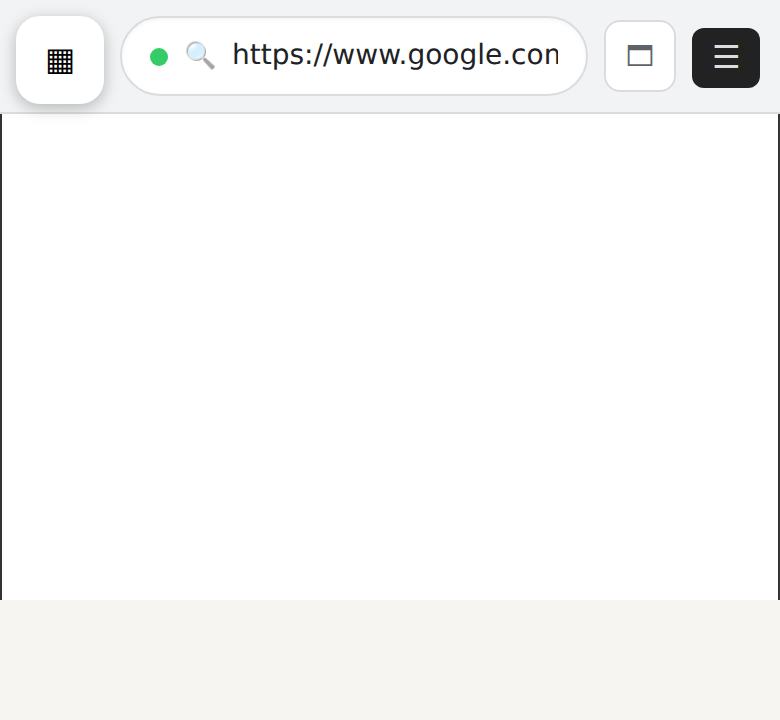
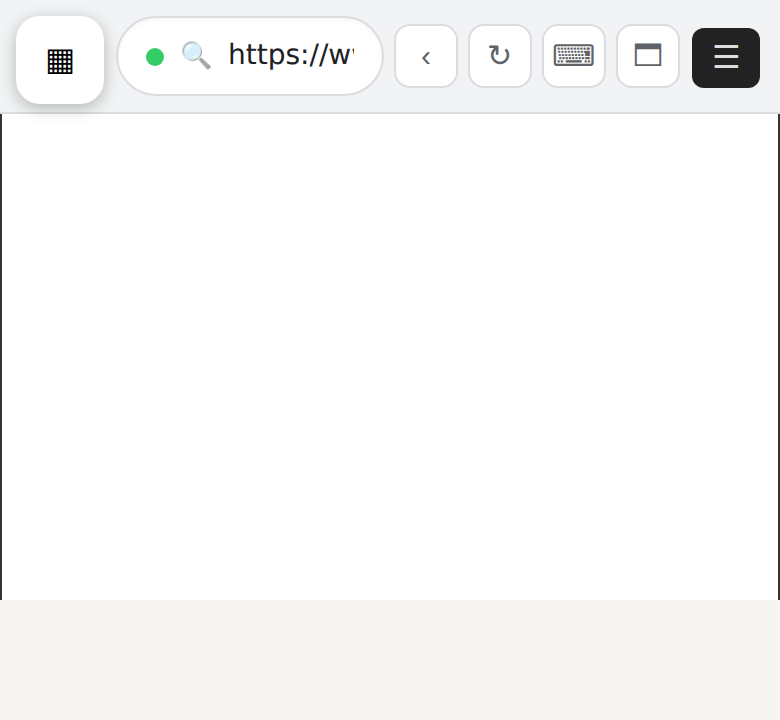
0.0.8: mobile keyboard, touch scroll/tap, home=google.com, back/reload
Mobile UX fixes (the streamed page is a canvas, not real DOM):
- Soft keyboard: a hidden textarea is focused on tap (and via a ⌨ button) to
  raise the mobile keyboard; keystrokes + IME/beforeinput are forwarded to the
  remote page via CDP. Fixes 'keyboard doesn't pop up when I tap a field'.
- Touch: tap = click, drag = scroll (mouseWheel); pointer events unify mouse +
  touch. Desktop mouse unchanged.
- Home page: a new browser navigates to PI_CRUST_BROWSER_HOME (default
  https://www.google.com/) instead of about:blank.
- Toolbar: Back (‹), Reload (↻), Keyboard (⌨), Maximize — sized to fit mobile
  beside the search pill, clear of the host's corner controls.

Tests: 101 passed | 18 todo, tsc clean, e2e green. docs/search-bar-mobile.png updated.

Changed region(s): [[0.1846, 0.0306, 0.7692, 0.1222], [0.8, 0.0306, 0.8615, 0.0917]]

diff --git a/src/web/widget.src.ts b/src/web/widget.src.ts
@@ -42,6 +42,9 @@ function BrowserViewer({ hostProps }: { hostProps: any }) {
   const React = hostProps.React;
   const { useEffect, useRef, useState } = React;
   const canvasRef = useRef(null);
+  const kbRef = useRef(null);
+  const gestureRef = useRef({ sx: 0, sy: 0, lx: 0, ly: 0, px: 0, py: 0, moved: false, touch: false });
+  const pressedRef = useRef(false);
   const sizeRef = useRef({ w: 1280, h: 800 });
   const transportRef = useRef(null);
   const browserIdRef = useRef(null);
@@ -135,14 +138,72 @@ function BrowserViewer({ hostProps }: { hostProps: any }) {
     if (t && id) t.input(id, ev);
   };
 
-  const onMouse = (type: string) => (ev: any) => {
+  // Summon the on-screen keyboard by focusing the hidden textarea (mobile can
+  // only raise the soft keyboard for a focused editable element).
+  const focusKeyboard = () => { try { (kbRef.current as any)?.focus({ preventScroll: true }); } catch { /* ignore */ } };
+
+  // --- Pointer input: mouse = move/click/drag; touch = tap-to-click + drag-to-scroll.
+  const onPointerDown = (ev: any) => {
     const p = toPage(ev);
-    send({ kind: 'mouse', type, x: p.x, y: p.y, button: 'left', clickCount: type === 'mouseMoved' ? 0 : 1 });
-    if (type === 'mousePressed') canvasRef.current?.focus();
+    gestureRef.current = { sx: ev.clientX, sy: ev.clientY, lx: ev.clientX, ly: ev.clientY, px: p.x, py: p.y, moved: false, touch: ev.pointerType !== 'mouse' };
+    pressedRef.current = true;
+    try { canvasRef.current?.setPointerCapture?.(ev.pointerId); } catch { /* ignore */ }
+    if (ev.pointerType === 'mouse') send({ kind: 'mouse', type: 'mousePressed', x: p.x, y: p.y, button: 'left', clickCount: 1 });
   };
-  const onKey = (type: string) => (ev: any) => {
-    send({ kind: 'key', type, key: ev.key, code: ev.code, text: ev.key.length === 1 ? ev.key : undefined });
-    ev.preventDefault();
+  const onPointerMove = (ev: any) => {
+    const g = gestureRef.current;
+    if (!pressedRef.current) {
+      if (ev.pointerType === 'mouse') { const p = toPage(ev); send({ kind: 'mouse', type: 'mouseMoved', x: p.x, y: p.y }); }
+      return;
+    }
+    if (Math.abs(ev.clientX - g.sx) + Math.abs(ev.clientY - g.sy) > 8) g.moved = true;
+    if (ev.pointerType === 'mouse') {
+      const p = toPage(ev); send({ kind: 'mouse', type: 'mouseMoved', x: p.x, y: p.y });
+    } else {
+      // touch drag → scroll the page by the delta since the last move
+      const r = canvasRef.current!.getBoundingClientRect();
+      const { w, h } = sizeRef.current;
+      const dx = (ev.clientX - g.lx) * (w / r.width);
+      const dy = (ev.clientY - g.ly) * (h / r.height);
+      g.lx = ev.clientX; g.ly = ev.clientY;
+      send({ kind: 'mouse', type: 'mouseWheel', x: g.px, y: g.py, deltaX: -dx, deltaY: -dy });
+    }
+  };
+  const onPointerUp = (ev: any) => {
+    if (!pressedRef.current) return;
+    pressedRef.current = false;
+    const g = gestureRef.current;
+    if (ev.pointerType === 'mouse') {
+      const p = toPage(ev); send({ kind: 'mouse', type: 'mouseReleased', x: p.x, y: p.y, button: 'left', clickCount: 1 });
+    } else if (!g.moved) {
+      // tap → click the remote element, then raise the keyboard so typing works
+      send({ kind: 'mouse', type: 'mousePressed', x: g.px, y: g.py, button: 'left', clickCount: 1 });
+      send({ kind: 'mouse', type: 'mouseReleased', x: g.px, y: g.py, button: 'left', clickCount: 1 });
+      focusKeyboard();
+    }
+  };
+
+  // --- Soft + hardware keyboard: forwarded from the hidden textarea.
+  const onKbKeyDown = (ev: any) => {
+    if (ev.key && ev.key.length > 1) { // named keys (Enter, Backspace, Arrow*, Tab, Esc)
+      send({ kind: 'key', type: 'keyDown', key: ev.key, code: ev.code });
+      if (['Backspace', 'Tab', 'Enter', 'ArrowUp', 'ArrowDown'].includes(ev.key)) ev.preventDefault();
+    } else if (ev.key && (ev.ctrlKey || ev.metaKey)) {
+      send({ kind: 'key', type: 'keyDown', key: ev.key, code: ev.code, modifiers: { ctrl: ev.ctrlKey, meta: ev.metaKey, shift: ev.shiftKey, alt: ev.altKey } });
+    }
+  };
+  const onKbKeyUp = (ev: any) => { if (ev.key && ev.key.length > 1) send({ kind: 'key', type: 'keyUp', key: ev.key, code: ev.code }); };
+  // beforeinput carries soft-keyboard text/IME on mobile (keydown often lacks it).
+  const onKbBeforeInput = (ev: any) => {
+    const t = ev.inputType;
+    if (t === 'insertText' && ev.data) { send({ kind: 'text', text: ev.data }); ev.preventDefault(); }
+    else if (t === 'insertLineBreak' || t === 'insertParagraph') { send({ kind: 'key', type: 'keyDown', key: 'Enter' }); send({ kind: 'key', type: 'keyUp', key: 'Enter' }); ev.preventDefault(); }
+    else if (t === 'deleteContentBackward') { send({ kind: 'key', type: 'keyDown', key: 'Backspace' }); send({ kind: 'key', type: 'keyUp', key: 'Backspace' }); ev.preventDefault(); }
+  };
+
+  const ctrlAction = (action: string) => async () => {
+    const id = sessionIdRef.current; if (!id) return;
+    try { await fetch(`/api/ext/browser/${encodeURIComponent(id)}/${action}`, { method: 'POST' }); } catch { /* ignore */ }
   };
 
   // Address bar: navigate the browser THIS widget is attached to.
@@ -164,6 +225,7 @@ function BrowserViewer({ hostProps }: { hostProps: any }) {
   };
 
   const dot = status === 'live' ? '#3c6' : status === 'connecting' ? '#da3' : status === 'closed' ? '#e44' : '#e44';
+  const btnStyle = { flexShrink: 0, width: 32, height: 32, padding: 0, cursor: 'pointer', background: '#fff', color: '#5f6368', border: '1px solid #dadce0', borderRadius: 8, fontSize: 15, lineHeight: '1' };
   const rootStyle = maximized
     ? { position: 'fixed', inset: '0', zIndex: 2147483000, display: 'flex', flexDirection: 'column', background: '#15151a' }
     : { display: 'flex', flexDirection: 'column', height: '100%', minHeight: 0, background: '#15151a' };
@@ -172,7 +234,7 @@ function BrowserViewer({ hostProps }: { hostProps: any }) {
     // Header padded to clear the host's floating corner controls (sidebar
     // toggle on the left, menu on the right) — important on mobile where they
     // overlay the panel. The URL field is a rounded search pill.
-    React.createElement('div', { style: { flex: '0 0 auto', display: 'flex', alignItems: 'center', gap: 8, padding: '8px 10px', paddingLeft: 60, paddingRight: 52, minHeight: 52, boxSizing: 'border-box', color: '#202124', font: '13px system-ui', borderBottom: '1px solid #dadce0', background: '#f1f3f4' } },
+    React.createElement('div', { style: { flex: '0 0 auto', display: 'flex', alignItems: 'center', gap: 5, padding: '8px 8px', paddingLeft: 58, paddingRight: 50, minHeight: 52, boxSizing: 'border-box', color: '#202124', font: '13px system-ui', borderBottom: '1px solid #dadce0', background: '#f1f3f4' } },
       React.createElement('div', { style: { flex: 1, minWidth: 0, display: 'flex', alignItems: 'center', gap: 8, height: 38, padding: '0 14px', background: '#fff', border: '1px solid #dadce0', borderRadius: 999, boxShadow: 'inset 0 1px 2px rgba(0,0,0,0.04)' } },
         React.createElement('span', { 'data-testid': 'status-dot', title: status, style: { flexShrink: 0, width: 9, height: 9, borderRadius: '50%', background: dot, display: 'inline-block' } }),
         React.createElement('span', { 'aria-hidden': 'true', style: { flexShrink: 0, opacity: 0.55, fontSize: 13 } }, '🔍'),
@@ -186,7 +248,10 @@ function BrowserViewer({ hostProps }: { hostProps: any }) {
           style: { flex: 1, minWidth: 0, background: 'transparent', color: '#202124', border: 'none', padding: 0, font: '14px system-ui', outline: 'none' },
         }),
       ),
-      React.createElement('button', { 'aria-label': maximized ? 'Restore' : 'Maximize', onClick: () => setMaximized(!maximized), style: { flexShrink: 0, width: 36, height: 36, cursor: 'pointer', background: '#fff', color: '#5f6368', border: '1px solid #dadce0', borderRadius: 8, fontSize: 14 } }, maximized ? '🗗' : '🗖'),
+      React.createElement('button', { 'aria-label': 'Back', title: 'Back', onClick: ctrlAction('back'), style: btnStyle }, '‹'),
+      React.createElement('button', { 'aria-label': 'Reload', title: 'Reload', onClick: ctrlAction('reload'), style: btnStyle }, '↻'),
+      React.createElement('button', { 'aria-label': 'Keyboard', title: 'Show keyboard', onClick: focusKeyboard, style: btnStyle }, '⌨'),
+      React.createElement('button', { 'aria-label': maximized ? 'Restore' : 'Maximize', onClick: () => setMaximized(!maximized), style: btnStyle }, maximized ? '🗗' : '🗖'),
     ),
     awaiting ? React.createElement('div', { 'data-testid': 'awaiting-banner', role: 'alert', style: { flex: '0 0 auto', display: 'flex', alignItems: 'center', gap: 10, padding: '6px 10px', background: '#3a2f00', color: '#ffd', font: '12px system-ui' } },
       React.createElement('span', null, `🔐 Agent is waiting — ${(awaiting as any).reason}`),
@@ -197,12 +262,19 @@ function BrowserViewer({ hostProps }: { hostProps: any }) {
       errorMsg ? React.createElement('div', { style: { opacity: 0.85, fontFamily: 'ui-monospace, monospace', marginTop: 4, whiteSpace: 'pre-wrap' } }, errorMsg) : null,
       React.createElement('div', { style: { opacity: 0.75, marginTop: 6 } }, 'Set PI_CRUST_BROWSER_CDP_URL to a Chrome debug endpoint (e.g. ws://127.0.0.1:9222/), or run `npx playwright install chromium` on the host, then restart pi-crust.'),
     ) : null,
+    // Hidden textarea: focusing it raises the mobile soft keyboard; we forward
+    // its keystrokes/IME to the remote page (the canvas isn't a real input).
+    React.createElement('textarea', {
+      ref: kbRef, 'aria-hidden': 'true', autoCapitalize: 'off', autoCorrect: 'off', autoComplete: 'off', spellCheck: false,
+      onKeyDown: onKbKeyDown, onKeyUp: onKbKeyUp, onBeforeInput: onKbBeforeInput, onInput: (e: any) => { e.target.value = ''; },
+      style: { position: 'absolute', opacity: 0, width: 1, height: 1, padding: 0, border: 0, left: 2, bottom: 2, resize: 'none' },
+    }),
     React.createElement('div', { style: { flex: '1 1 auto', minHeight: 0, display: 'flex', alignItems: 'center', justifyContent: 'center', overflow: 'hidden' } },
       React.createElement('canvas', {
         ref: canvasRef, width: 1280, height: 800, tabIndex: 0, 'aria-label': 'Remote browser viewport',
-        style: { maxWidth: '100%', maxHeight: '100%', background: '#fff', cursor: 'crosshair', boxShadow: '0 0 0 1px #333' },
-        onMouseDown: onMouse('mousePressed'), onMouseUp: onMouse('mouseReleased'), onMouseMove: onMouse('mouseMoved'),
-        onKeyDown: onKey('keyDown'), onKeyUp: onKey('keyUp'),
+        style: { maxWidth: '100%', maxHeight: '100%', background: '#fff', cursor: 'crosshair', boxShadow: '0 0 0 1px #333', touchAction: 'none' },
+        onPointerDown: onPointerDown, onPointerMove: onPointerMove, onPointerUp: onPointerUp, onPointerCancel: onPointerUp,
+        onKeyDown: onKbKeyDown, onKeyUp: onKbKeyUp, onBeforeInput: onKbBeforeInput,
       }),
     ),
   );

diff --git a/test/widget/widget.test.ts b/test/widget/widget.test.ts
@@ -92,13 +92,32 @@ describe('widget (React/DOM)', () => {
     expect(container.querySelector('[data-testid=awaiting-banner]')).toBeNull();
   });
 
-  it('INP-2: a canvas mousedown emits browser:input', async () => {
+  it('INP-2: a canvas tap (pointer) emits a click', async () => {
     await renderWidget(apiWithSession);
     const canvas = container.querySelector('canvas')!;
     canvas.getBoundingClientRect = () => ({ left: 0, top: 0, width: 1280, height: 800 }) as any;
-    await act(async () => { canvas.dispatchEvent(new MouseEvent('mousedown', { clientX: 10, clientY: 20, bubbles: true })); });
-    const input = fakeSocket.emitted.find((e: any) => e.event === 'browser:input' && e.payload.kind === 'mouse');
-    expect(input?.payload).toMatchObject({ browserId: 'br-1', type: 'mousePressed' });
+    await act(async () => {
+      canvas.dispatchEvent(new MouseEvent('pointerdown', { clientX: 10, clientY: 20, bubbles: true }));
+      canvas.dispatchEvent(new MouseEvent('pointerup', { clientX: 10, clientY: 20, bubbles: true }));
+    });
+    const press = fakeSocket.emitted.find((e: any) => e.event === 'browser:input' && e.payload.type === 'mousePressed');
+    expect(press?.payload).toMatchObject({ browserId: 'br-1', kind: 'mouse', type: 'mousePressed' });
+  });
+
+  it('keyboard: a key on the hidden textarea forwards a key event to the remote', async () => {
+    await renderWidget(apiWithSession);
+    const kb = container.querySelector('textarea')!;
+    await act(async () => { kb.dispatchEvent(new KeyboardEvent('keydown', { key: 'Enter', bubbles: true })); });
+    const key = fakeSocket.emitted.find((e: any) => e.event === 'browser:input' && e.payload.kind === 'key');
+    expect(key?.payload).toMatchObject({ browserId: 'br-1', type: 'keyDown', key: 'Enter' });
+  });
+
+  it('keyboard button focuses the hidden textarea (raises the soft keyboard)', async () => {
+    await renderWidget(apiWithSession);
+    const kbBtn = Array.from(container.querySelectorAll('button')).find((b) => b.getAttribute('aria-label') === 'Keyboard')!;
+    const kb = container.querySelector('textarea')!;
+    await act(async () => { kbBtn.click(); });
+    expect(document.activeElement).toBe(kb);
   });
 
   it('RVL-2: unmount detaches and disconnects the socket', async () => {

diff --git a/src/core/browser-service.ts b/src/core/browser-service.ts
@@ -52,6 +52,7 @@ export function createBrowserService(options: BrowserServiceOptions): BrowserSer
   const maxSessions = options.maxSessions ?? Infinity;
   const idleMs = options.idleMs ?? 5 * 60 * 1000;
   const reapIntervalMs = options.reapIntervalMs ?? 30 * 1000;
+  const homeUrl = options.homeUrl;
   const now = options.now ?? Date.now;
 
   const byBrowserId = new Map<string, SessionState>();
@@ -182,6 +183,9 @@ export function createBrowserService(options: BrowserServiceOptions): BrowserSer
         lastActivity: now(),
       });
       browserIdByPi.set(piSessionId, browserId);
+      // New browser opens on the configured home page (e.g. google.com) so the
+      // panel shows something instead of about:blank.
+      if (homeUrl) void session.send('Page.navigate', { url: homeUrl }).catch(() => {});
       return browserId;
     },
 
@@ -214,6 +218,21 @@ export function createBrowserService(options: BrowserServiceOptions): BrowserSer
       const s = require(browserId);
       touch(s);
       await s.cdp.send('Page.navigate', { url });
+    },
+
+    async reload(browserId: string): Promise<void> {
+      const s = require(browserId);
+      touch(s);
+      await s.cdp.send('Page.reload', {});
+    },
+
+    async goBack(browserId: string): Promise<void> {
+      const s = require(browserId);
+      touch(s);
+      const h = (await s.cdp.send('Page.getNavigationHistory')) as any;
+      const entries = Array.isArray(h?.entries) ? h.entries : [];
+      const idx = (typeof h?.currentIndex === 'number' ? h.currentIndex : 0) - 1;
+      if (idx >= 0 && entries[idx]) await s.cdp.send('Page.navigateToHistoryEntry', { entryId: entries[idx].id });
     },
 
     async snapshot(browserId: string): Promise<{ url: string; title: string; text: string }> {

diff --git a/src/prc/routes.ts b/src/prc/routes.ts
@@ -113,6 +113,20 @@ export function createBrowserRoutes(deps: BrowserRoutesDeps) {
       return { status: 200, body: { ok: true, browserId } };
     },
 
+    async reload(req: RouteRequest): Promise<RouteResponse> {
+      const sessionId = req.params.sessionId;
+      if (!deps.service.hasSession(sessionId)) return { status: 200, body: { ok: false } };
+      await deps.service.reload(await deps.service.openSession(sessionId));
+      return { status: 200, body: { ok: true } };
+    },
+
+    async back(req: RouteRequest): Promise<RouteResponse> {
+      const sessionId = req.params.sessionId;
+      if (!deps.service.hasSession(sessionId)) return { status: 200, body: { ok: false } };
+      await deps.service.goBack(await deps.service.openSession(sessionId));
+      return { status: 200, body: { ok: true } };
+    },
+
     async snapshot(req: RouteRequest): Promise<RouteResponse> {
       const sessionId = req.params.sessionId;
       if (!(await deps.resolveSession(sessionId).catch(() => undefined))) {

diff --git a/test/unit/browser-service.test.ts b/test/unit/browser-service.test.ts
@@ -22,6 +22,15 @@ describe('BrowserService — lifecycle', () => {
     expect(cdpFactory.sessions.size).toBe(1);
   });
 
+  it('home: a new browser navigates to the configured home URL', async () => {
+    const cdpFactory = new FakeCdpFactory();
+    const service = createBrowserService({ cdpFactory, homeUrl: 'https://www.google.com/' });
+    await service.openSession('pi-1');
+    const navs = cdpFactory.sessions.get('pi-1')!.callsTo('Page.navigate');
+    expect(navs).toHaveLength(1);
+    expect(navs[0].params).toEqual({ url: 'https://www.google.com/' });
+  });
+
   it('LIFE-3: closeSession disposes the underlying CDP session (no orphans)', async () => {
     const { service, cdpFactory } = setup();
     await service.openSession('pi-1');

diff --git a/test/unit/routes.test.ts b/test/unit/routes.test.ts
@@ -87,6 +87,15 @@ describe('browser routes', () => {
     expect((await waiting).body).toEqual({ resumed: true });
   });
 
+  it('reload/back drive the browser via CDP', async () => {
+    const { routes, service, cdpFactory } = setup();
+    await service.openSession('pi-1');
+    expect((await routes.reload(req({ params: { sessionId: 'pi-1' } }))).body).toEqual({ ok: true });
+    expect(cdpFactory.sessions.get('pi-1')!.callsTo('Page.reload')).toHaveLength(1);
+    await routes.back(req({ params: { sessionId: 'pi-1' } }));
+    expect(cdpFactory.sessions.get('pi-1')!.callsTo('Page.getNavigationHistory')).toHaveLength(1);
+  });
+
   it('wait/resume on a session with no browser are no-ops (no spurious Chromium)', async () => {
     const { routes, service } = setup();
     expect((await routes.resume(req({ params: { sessionId: 'pi-1' } }))).body).toEqual({ resumed: false });

diff --git a/src/prc/server.ts b/src/prc/server.ts
@@ -48,7 +48,10 @@ export default function activate(prc: any): void {
     // visible window with PI_CRUST_BROWSER_HEADLESS=0 (requires an X display).
     launch: { headless: process.env.PI_CRUST_BROWSER_HEADLESS !== '0' },
   });
-  const service = createBrowserService({ cdpFactory: factory });
+  const service = createBrowserService({
+    cdpFactory: factory,
+    homeUrl: process.env.PI_CRUST_BROWSER_HOME ?? 'https://www.google.com/',
+  });
 
   // Gateway: per-connection browser:* handlers. Token is OPTIONAL for the
   // same-origin sidebar (the host already authenticates the page); the inline
@@ -72,6 +75,8 @@ export default function activate(prc: any): void {
   prc.server.api.post('/api/ext/browser/:sessionId/wait', (req: any) => routes.wait(req));
   prc.server.api.post('/api/ext/browser/:sessionId/resume', (req: any) => routes.resume(req));
   prc.server.api.post('/api/ext/browser/:sessionId/navigate', (req: any) => routes.navigate(req));
+  prc.server.api.post('/api/ext/browser/:sessionId/reload', (req: any) => routes.reload(req));
+  prc.server.api.post('/api/ext/browser/:sessionId/back', (req: any) => routes.back(req));
   prc.server.api.post('/api/ext/browser/:sessionId/snapshot', (req: any) => routes.snapshot(req));
 
   // Serve the bundled inline-card client (built by scripts/build-web.mjs).

diff --git a/src/core/protocol.ts b/src/core/protocol.ts
@@ -79,6 +79,8 @@ export interface BrowserServiceOptions {
   readonly idleMs?: number;
   /** How often the idle reaper sweeps (default 30s). */
   readonly reapIntervalMs?: number;
+  /** URL a freshly-created browser navigates to (default: none / about:blank). */
+  readonly homeUrl?: string;
   /** Injectable clock for deterministic reaper tests. */
   readonly now?: () => number;
 }
@@ -94,6 +96,10 @@ export interface BrowserService {
   input(browserId: string, viewerId: string, event: InputEvent): Promise<void>;
   /** TOOL-2: navigate the browser (CDP Page.navigate). */
   navigate(browserId: string, url: string): Promise<void>;
+  /** Reload the current page. */
+  reload(browserId: string): Promise<void>;
+  /** Go back one entry in history (no-op if none). */
+  goBack(browserId: string): Promise<void>;
   /** TOOL-4: model-safe page snapshot (url/title/text); never includes secrets. */
   snapshot(browserId: string): Promise<{ url: string; title: string; text: string }>;
   /** HOFF-1/2: enter awaiting-human state. */

diff --git a/test/unit/server-activate.test.ts b/test/unit/server-activate.test.ts
@@ -41,6 +41,8 @@ describe('server activate (HOST-1 / wiring)', () => {
       'POST /api/ext/browser/:sessionId/wait',
       'POST /api/ext/browser/:sessionId/resume',
       'POST /api/ext/browser/:sessionId/navigate',
+      'POST /api/ext/browser/:sessionId/reload',
+      'POST /api/ext/browser/:sessionId/back',
       'POST /api/ext/browser/:sessionId/snapshot',
     ]));
   });